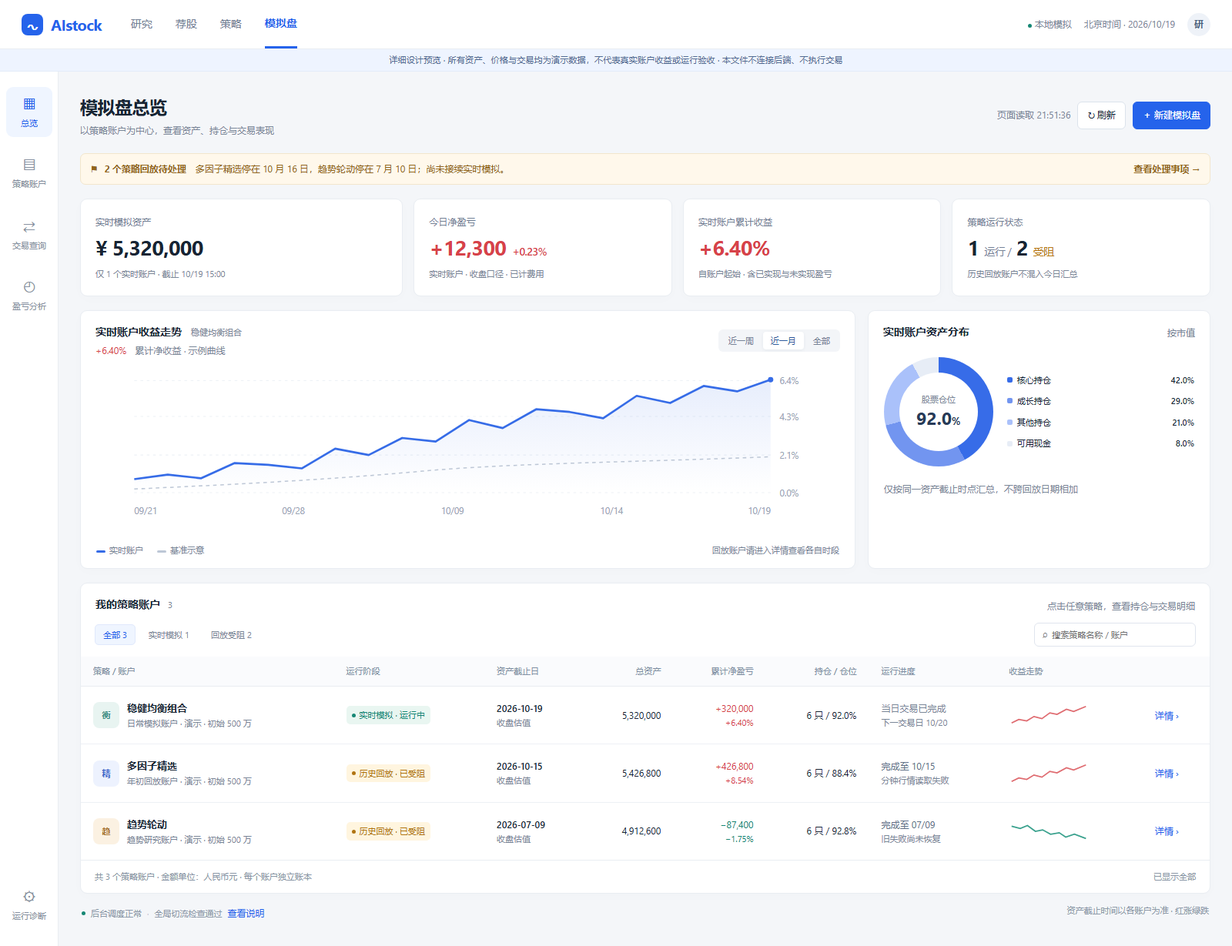
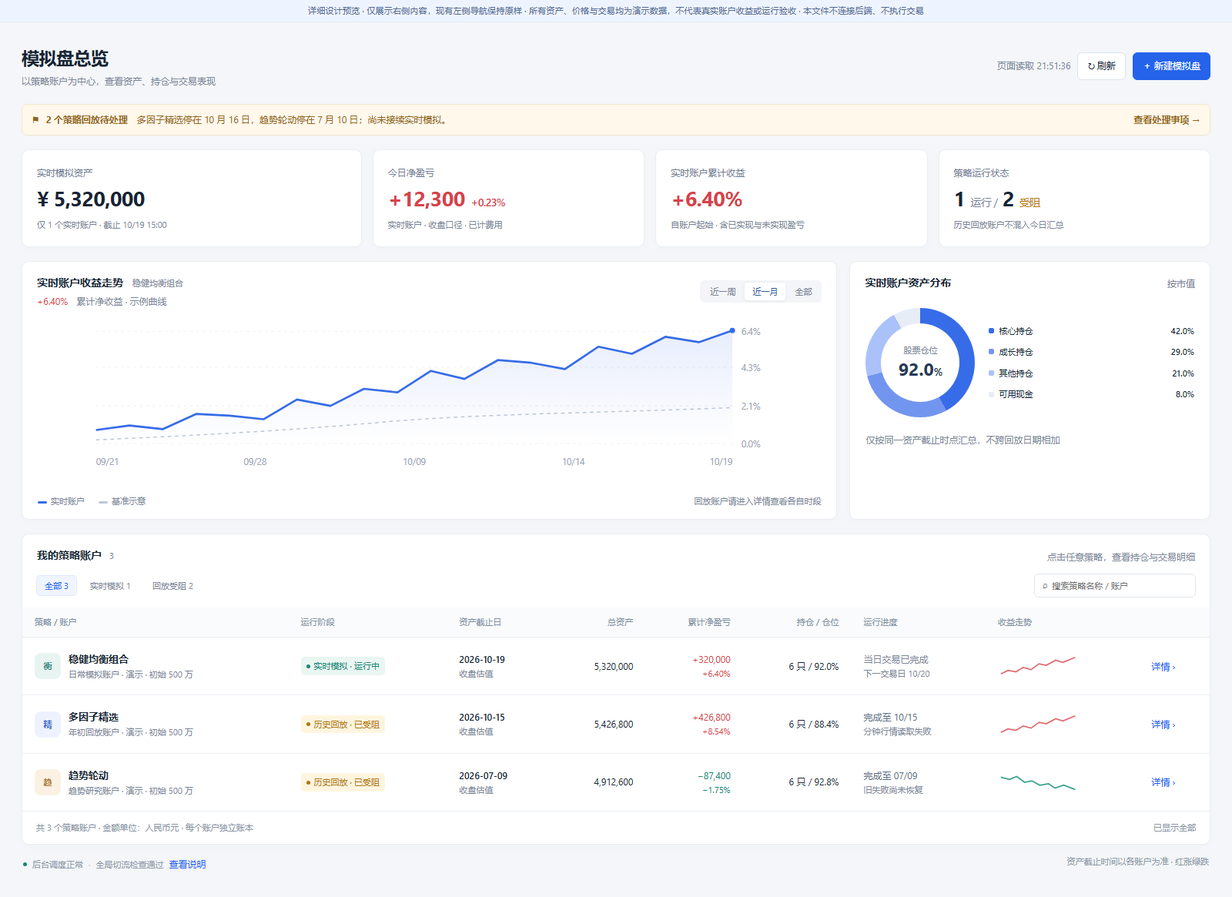
docs(localsim): preserve existing sidebar and scope layouts to content

diff --git a/docs/design/localsim_trading_workbench_20261019/index.html b/docs/design/localsim_trading_workbench_20261019/index.html
@@ -6,28 +6,16 @@
 <title>AIstock · 模拟盘交易工作台设计预览</title>
 <style>
 :root{--bg:#f4f6f9;--panel:#fff;--text:#182433;--muted:#7a8798;--line:#e9edf2;--blue:#2563eb;--bluebg:#eff5ff;--red:#d74249;--green:#168774;--orange:#b87917;--orangebg:#fff8eb;--shadow:0 3px 15px #25365204}
-*{box-sizing:border-box}body{margin:0;background:var(--bg);color:var(--text);font:13px/1.6 "Segoe UI","Microsoft YaHei",sans-serif}button,input,select{font:inherit}button,a{touch-action:manipulation}button{cursor:pointer}a{color:var(--blue);text-decoration:none}button{border:0;background:none;color:inherit}button:focus-visible,a:focus-visible,input:focus-visible,select:focus-visible{outline:2px solid var(--blue);outline-offset:3px}[hidden]{display:none!important}.topbar{height:64px;display:flex;align-items:center;padding:0 28px;gap:38px;background:#fff;border-bottom:1px solid var(--line)}.brand{font-size:20px;font-weight:750;letter-spacing:-.6px;display:flex;align-items:center;gap:10px}.brandmark{height:28px;width:28px;display:grid;place-items:center;background:var(--blue);color:white;border-radius:8px;font-size:19px}.topnav{display:flex;align-self:stretch;gap:30px}.topnav span{display:grid;place-items:center;font-size:14px;color:#738195}.topnav .active{color:var(--blue);border-bottom:3px solid var(--blue);font-weight:650}.topright{margin-left:auto;display:flex;align-items:center;gap:16px;color:var(--muted);font-size:12px}.avatar{display:grid;place-items:center;width:30px;height:30px;background:#eef2f8;border-radius:50%;color:#495e7b;font-weight:600}.demo{background:#eef4ff;color:#526b93;text-align:center;font-size:11px;letter-spacing:.2px;padding:5px 16px;border-bottom:1px solid #e3ebf9}.workspace{display:grid;grid-template-columns:76px minmax(0,1fr);min-height:calc(100vh - 92px)}.rail{background:#fff;border-right:1px solid var(--line);padding:20px 8px;display:flex;flex-direction:column;gap:14px}.rail button{display:flex;flex-direction:column;align-items:center;gap:6px;width:60px;padding:10px 3px;border-radius:9px;color:#8791a1;font-size:11px}.rail button .icon{font-size:20px;line-height:1.1}.rail button.selected{background:var(--bluebg);color:var(--blue)}.rail .bottom{margin-top:auto}.main{min-width:0;padding:23px 28px 30px;max-width:1710px;width:100%;margin:auto}.heading{display:flex;align-items:center;justify-content:space-between;gap:15px;margin-bottom:19px}.heading h1{font-size:23px;letter-spacing:-.5px;margin:0 0 3px;font-weight:700}.sub{font-size:12px;color:var(--muted)}.muted{color:var(--muted)}.tiny{font-size:11px}.right{text-align:right!important}.mono,.number{font-variant-numeric:tabular-nums}.number{font-family:"Segoe UI","Microsoft YaHei",sans-serif}.up{color:var(--red)!important}.down{color:var(--green)!important}.neutral{color:#607087}.actions{display:flex;align-items:center;gap:9px}.btn{padding:7px 12px;border:1px solid #dce3ec;border-radius:6px;background:#fff;font-size:12px;white-space:nowrap}.btn.primary{background:var(--blue);border-color:var(--blue);color:#fff}.btn.link{border:0;background:none;padding:3px 0;color:var(--blue)}.pill{display:inline-flex;align-items:center;gap:5px;border-radius:5px;padding:3px 7px;font-size:11px;white-space:nowrap}.pill.live{color:#168774;background:#e9f6f1}.pill.blocked{color:#b07412;background:#fff5df}.pill.blue{color:#3563ae;background:#edf3ff}.dot{width:5px;height:5px;background:currentColor;border-radius:50%;display:inline-block}.notice{display:flex;align-items:center;gap:9px;font-size:12px;background:var(--orangebg);border:1px solid #f2e6cc;border-radius:7px;padding:10px 13px;color:#91651d;margin-bottom:18px}.notice.blue{background:#f0f5fd;color:#58739c;border-color:#dfe8f7}.notice a,.notice button{margin-left:auto;color:inherit;font-weight:600;white-space:nowrap}.metrics{display:grid;grid-template-columns:1.25fr 1fr 1fr 1fr;gap:14px;margin-bottom:18px}.metric{background:#fff;border:1px solid var(--line);border-radius:9px;padding:17px 19px;box-shadow:var(--shadow)}.metric .label{color:#718094;font-size:12px;display:flex;align-items:center;gap:7px}.metric .value{font-size:27px;line-height:1.25;margin-top:7px;letter-spacing:-.6px;font-weight:650}.metric .foot{color:var(--muted);font-size:11px;margin-top:8px}.metric .inline{font-size:14px;margin-left:8px;font-weight:500}.panel{background:#fff;border:1px solid var(--line);border-radius:9px;box-shadow:var(--shadow);min-width:0}.panelhead{padding:16px 19px 12px;display:flex;align-items:center;justify-content:space-between;gap:15px}.panelhead h2{margin:0;font-size:14px;font-weight:650}.panelhead .sub{margin-top:3px}.segmented{display:flex;gap:2px;background:#f3f5f8;padding:3px;border-radius:6px}.segmented button{padding:3px 10px;font-size:11px;border-radius:4px;color:#778397}.segmented button.active{background:#fff;color:#305b9c;box-shadow:0 1px 4px #172e5610}.chartrow{display:grid;grid-template-columns:minmax(0,2.08fr) minmax(270px,.92fr);gap:16px;margin-bottom:18px}.chart{padding:0 14px 9px}.chart svg{display:block;width:100%;height:190px}.legend{display:flex;gap:18px;align-items:center;font-size:11px;color:#7b8899}.legend .swatch{display:inline-block;width:12px;height:3px;border-radius:2px;margin-right:5px;vertical-align:middle}.donutwrap{display:flex;align-items:center;padding:9px 20px 20px;gap:18px}.donut{width:142px;height:142px;border-radius:50%;display:grid;place-items:center;background:conic-gradient(#376ce8 0 42%,#7295f0 42% 71%,#aac1fa 71% 92%,#e7edf6 92%)}.donutinner{width:102px;height:102px;display:flex;align-items:center;justify-content:center;flex-direction:column;background:#fff;border-radius:50%;font-size:11px;color:var(--muted)}.donutinner b{font-size:23px;color:#283b58;line-height:1.4}.allocation{flex:1;display:grid;gap:10px;font-size:11px}.allocation div{display:flex;align-items:center;gap:6px}.allocation b{font-weight:600;margin-left:auto}.sq{width:7px;height:7px;display:inline-block;background:#376ce8;border-radius:2px}.toolbar{padding:0 18px 13px;display:flex;align-items:center;justify-content:space-between;gap:12px}.chips{display:flex;gap:6px;align-items:center;flex-wrap:wrap}.chip{padding:4px 10px;border-radius:5px;font-size:11px;color:#7c8898;border:1px solid transparent}.chip.active{background:var(--bluebg);color:var(--blue);border-color:#e0e9fc}.search{border:1px solid #e0e5ee;border-radius:6px;padding:6px 10px;font-size:11px;width:210px;color:#495a73;background:#fff}.tablewrap{overflow:auto}table{width:100%;border-collapse:collapse;white-space:nowrap;font-size:12px}th{font-weight:500;color:#8090a4;background:#fafbfd;font-size:11px;text-align:left;padding:10px 16px;border-bottom:1px solid var(--line)}td{padding:14px 16px;border-bottom:1px solid #edf0f5;vertical-align:middle}tr:last-child td{border-bottom:0}.strategyrow{cursor:pointer}.strategyrow:hover td{background:#f7faff}.strategytitle{display:flex;align-items:center;gap:10px}.strategylogo{width:34px;height:34px;border-radius:8px;display:grid;place-items:center;font-size:11px;font-weight:700;flex-shrink:0;color:#426bcb;background:#edf2fe}.strategylogo.orange{color:#aa742e;background:#fbf1e2}.strategylogo.teal{color:#378d83;background:#e8f4f1}.strategytitle b{font-size:13px;font-weight:600}.datecell b{font-weight:500}.mini-trend{width:105px;height:30px;display:block}.tablefooter{display:flex;justify-content:space-between;padding:12px 18px;color:#8a96a6;font-size:11px;border-top:1px solid var(--line)}.progressline{display:block;width:85px;height:3px;background:#edf0f5;border-radius:2px;margin:5px 0 3px}.progressline i{display:block;height:3px;background:#6b94ed;border-radius:2px}.bottomline{display:flex;justify-content:space-between;padding:13px 2px 0;color:#8d99a9;font-size:11px}.system-status{display:flex;align-items:center;gap:7px}.breadcrumb{display:flex;align-items:center;gap:7px;font-size:11px;color:#96a0ad;margin-bottom:12px}.breadcrumb button{color:#6f7e91;padding:0}.detailheading{display:flex;align-items:center;gap:10px}.detailheading h1{margin:0}.detailheading .strategylogo{width:38px;height:38px}.detailheading small{font-weight:400;font-size:12px}.accountmeta{display:flex;gap:16px;margin-top:6px;color:#8190a2;font-size:11px}.detailmetrics{grid-template-columns:1.35fr repeat(5,1fr);gap:0;border:1px solid var(--line);background:#fff;border-radius:9px;margin-bottom:16px;padding:18px 0}.detailmetrics .metric{border:0;border-right:1px solid var(--line);border-radius:0;padding:0 17px;box-shadow:none}.detailmetrics .metric:last-child{border:0}.detailmetrics .metric .value{font-size:23px}.detailmetrics .metric:first-child .value{font-size:27px}.detailmetrics .metric .foot{margin-top:7px}.detailcharts{grid-template-columns:minmax(0,2.3fr) minmax(245px,.7fr)}.detailcharts .chart svg{height:157px}.exposure{padding:4px 19px 16px}.allocationbar{height:7px;border-radius:5px;background:#edf1f6;overflow:hidden;margin:12px 0}.allocationbar i{height:7px;display:block;background:#4c7ce5;border-radius:5px}.exposurerow{display:flex;justify-content:space-between;margin-top:7px;color:#7d8a9b;font-size:11px}.exposurerow b{color:#3c4e67;font-weight:550}.tabs{display:flex;align-items:center;gap:25px;padding:0 18px;border-bottom:1px solid var(--line);overflow:auto}.tabs button{padding:13px 0 12px;color:#7d899b;font-size:12px;white-space:nowrap;position:relative}.tabs button.active{color:var(--blue);font-weight:600}.tabs button.active:after{content:"";position:absolute;height:2px;bottom:0;left:0;right:0;background:var(--blue)}.tabs .tabmeta{margin-left:auto;color:#94a0af;font-size:11px;white-space:nowrap}.tabbody .toolbar{padding-top:12px}.stock b{font-size:12px;font-weight:600}.stock small{display:block;font-size:10px;color:#929dab;margin-top:2px}.stock button{text-align:left;padding:0}.position-table td{padding:11px 15px}.weight{height:3px;border-radius:3px;background:#edf2f9;width:50px;margin-left:auto;margin-top:4px}.weight i{display:block;height:3px;border-radius:3px;background:#82a6ee}.buysell{font-size:11px;padding:3px 7px;border-radius:4px}.buysell.buy{background:#fdf0f0;color:var(--red)}.buysell.sell{background:#eaf5f0;color:var(--green)}.dateinput{border:1px solid #dfe5ee;border-radius:5px;padding:5px 7px;background:#fff;font-size:11px;color:#566981}.filters{display:flex;align-items:center;gap:8px;flex-wrap:wrap}.pnlmetrics{display:grid;grid-template-columns:repeat(4,1fr);gap:12px;margin:0 18px 15px}.pnlbox{border-radius:7px;background:#f8fafd;padding:13px 14px}.pnlbox small{font-size:11px;color:#8793a4}.pnlbox b{display:block;font-size:20px;font-weight:600;margin-top:3px}.pnlbox .sub{font-size:10px;margin-top:3px}.pnlnote{padding:0 18px 13px;color:#8d99a9;font-size:11px}.statusbanner{padding:11px 16px;background:#fff8eb;border-top:1px solid #f6ecd4;color:#9e792e;font-size:11px;display:flex;align-items:center;justify-content:space-between}.sectionlabel{padding:0 18px 10px;font-size:12px;font-weight:600}.monitor-layout{display:grid;grid-template-columns:minmax(0,1.45fr) minmax(340px,1fr);gap:12px;padding:14px}.monitor-box{border:1px solid var(--line);border-radius:7px;overflow:hidden}.monitor-box h3{font-size:12px;margin:0;padding:10px 13px;background:#f9fbfe;border-bottom:1px solid var(--line)}.monitor-box td{padding:10px 12px}.monitor-box th{padding:9px 12px}.terminal-mode .detailcharts{display:none}.monitor-event{padding:12px 14px;font-size:12px}.monitor-event p{font-size:11px;color:#8793a2;margin:5px 0 12px}.eventlist{padding:0 19px 12px}.event{padding:14px 0;display:grid;grid-template-columns:125px 1fr;gap:15px;border-bottom:1px solid var(--line)}.event:last-child{border-bottom:0}.event b{font-size:12px}.event p{margin:4px 0;font-size:12px;color:#718098}.backdrop{position:fixed;inset:0;background:#13233e33;z-index:10;display:flex;justify-content:flex-end}.drawer{background:#fff;width:570px;height:100%;box-shadow:-10px 0 35px #25334b13;overflow:auto}.drawerhead{padding:22px 23px 17px;border-bottom:1px solid var(--line);display:flex;align-items:start;justify-content:space-between}.drawerhead h2{font-size:20px;margin:0}.drawerhead .btn{font-size:17px;padding:1px 9px}.drawercontent{padding:19px 23px}.drawerquote{font-size:30px;line-height:1.2;margin:10px 0 4px;font-weight:650}.drawergrid{display:grid;grid-template-columns:repeat(3,1fr);gap:16px;padding:18px 0;border-top:1px solid var(--line);border-bottom:1px solid var(--line);margin-top:20px}.drawergrid small{font-size:11px;color:#8592a4;display:block}.drawergrid b{font-size:15px;font-weight:600}.drawer h3{font-size:13px;margin:22px 0 10px}.drawer table td{padding:12px 8px}.toast{position:fixed;bottom:24px;left:50%;transform:translateX(-50%);padding:10px 17px;background:#243855;color:white;border-radius:7px;z-index:30;box-shadow:0 4px 20px #24385533;font-size:12px}.footerhint{position:fixed;right:12px;bottom:10px;background:#ffffffeb;border:1px solid #e2e8f1;border-radius:6px;padding:5px 10px;font-size:10px;color:#8090a3;z-index:5}.empty{padding:30px;text-align:center;color:#8d99a7}
+*{box-sizing:border-box}body{margin:0;background:var(--bg);color:var(--text);font:13px/1.6 "Segoe UI","Microsoft YaHei",sans-serif}button,input,select{font:inherit}button,a{touch-action:manipulation}button{cursor:pointer}a{color:var(--blue);text-decoration:none}button{border:0;background:none;color:inherit}button:focus-visible,a:focus-visible,input:focus-visible,select:focus-visible{outline:2px solid var(--blue);outline-offset:3px}[hidden]{display:none!important}.demo{background:#eef4ff;color:#526b93;text-align:center;font-size:11px;letter-spacing:.2px;padding:5px 16px;border-bottom:1px solid #e3ebf9}.workspace{min-height:calc(100vh - 32px)}.main{min-width:0;padding:23px 28px 30px;max-width:1710px;width:100%;margin:auto}.heading{display:flex;align-items:center;justify-content:space-between;gap:15px;margin-bottom:19px}.heading h1{font-size:23px;letter-spacing:-.5px;margin:0 0 3px;font-weight:700}.sub{font-size:12px;color:var(--muted)}.muted{color:var(--muted)}.tiny{font-size:11px}.right{text-align:right!important}.mono,.number{font-variant-numeric:tabular-nums}.number{font-family:"Segoe UI","Microsoft YaHei",sans-serif}.up{color:var(--red)!important}.down{color:var(--green)!important}.neutral{color:#607087}.actions{display:flex;align-items:center;gap:9px}.btn{padding:7px 12px;border:1px solid #dce3ec;border-radius:6px;background:#fff;font-size:12px;white-space:nowrap}.btn.primary{background:var(--blue);border-color:var(--blue);color:#fff}.btn.link{border:0;background:none;padding:3px 0;color:var(--blue)}.pill{display:inline-flex;align-items:center;gap:5px;border-radius:5px;padding:3px 7px;font-size:11px;white-space:nowrap}.pill.live{color:#168774;background:#e9f6f1}.pill.blocked{color:#b07412;background:#fff5df}.pill.blue{color:#3563ae;background:#edf3ff}.dot{width:5px;height:5px;background:currentColor;border-radius:50%;display:inline-block}.notice{display:flex;align-items:center;gap:9px;font-size:12px;background:var(--orangebg);border:1px solid #f2e6cc;border-radius:7px;padding:10px 13px;color:#91651d;margin-bottom:18px}.notice.blue{background:#f0f5fd;color:#58739c;border-color:#dfe8f7}.notice a,.notice button{margin-left:auto;color:inherit;font-weight:600;white-space:nowrap}.metrics{display:grid;grid-template-columns:1.25fr 1fr 1fr 1fr;gap:14px;margin-bottom:18px}.metric{background:#fff;border:1px solid var(--line);border-radius:9px;padding:17px 19px;box-shadow:var(--shadow)}.metric .label{color:#718094;font-size:12px;display:flex;align-items:center;gap:7px}.metric .value{font-size:27px;line-height:1.25;margin-top:7px;letter-spacing:-.6px;font-weight:650}.metric .foot{color:var(--muted);font-size:11px;margin-top:8px}.metric .inline{font-size:14px;margin-left:8px;font-weight:500}.panel{background:#fff;border:1px solid var(--line);border-radius:9px;box-shadow:var(--shadow);min-width:0}.panelhead{padding:16px 19px 12px;display:flex;align-items:center;justify-content:space-between;gap:15px}.panelhead h2{margin:0;font-size:14px;font-weight:650}.panelhead .sub{margin-top:3px}.segmented{display:flex;gap:2px;background:#f3f5f8;padding:3px;border-radius:6px}.segmented button{padding:3px 10px;font-size:11px;border-radius:4px;color:#778397}.segmented button.active{background:#fff;color:#305b9c;box-shadow:0 1px 4px #172e5610}.chartrow{display:grid;grid-template-columns:minmax(0,2.08fr) minmax(270px,.92fr);gap:16px;margin-bottom:18px}.chart{padding:0 14px 9px}.chart svg{display:block;width:100%;height:190px}.legend{display:flex;gap:18px;align-items:center;font-size:11px;color:#7b8899}.legend .swatch{display:inline-block;width:12px;height:3px;border-radius:2px;margin-right:5px;vertical-align:middle}.donutwrap{display:flex;align-items:center;padding:9px 20px 20px;gap:18px}.donut{width:142px;height:142px;border-radius:50%;display:grid;place-items:center;background:conic-gradient(#376ce8 0 42%,#7295f0 42% 71%,#aac1fa 71% 92%,#e7edf6 92%)}.donutinner{width:102px;height:102px;display:flex;align-items:center;justify-content:center;flex-direction:column;background:#fff;border-radius:50%;font-size:11px;color:var(--muted)}.donutinner b{font-size:23px;color:#283b58;line-height:1.4}.allocation{flex:1;display:grid;gap:10px;font-size:11px}.allocation div{display:flex;align-items:center;gap:6px}.allocation b{font-weight:600;margin-left:auto}.sq{width:7px;height:7px;display:inline-block;background:#376ce8;border-radius:2px}.toolbar{padding:0 18px 13px;display:flex;align-items:center;justify-content:space-between;gap:12px}.chips{display:flex;gap:6px;align-items:center;flex-wrap:wrap}.chip{padding:4px 10px;border-radius:5px;font-size:11px;color:#7c8898;border:1px solid transparent}.chip.active{background:var(--bluebg);color:var(--blue);border-color:#e0e9fc}.search{border:1px solid #e0e5ee;border-radius:6px;padding:6px 10px;font-size:11px;width:210px;color:#495a73;background:#fff}.tablewrap{overflow:auto}table{width:100%;border-collapse:collapse;white-space:nowrap;font-size:12px}th{font-weight:500;color:#8090a4;background:#fafbfd;font-size:11px;text-align:left;padding:10px 16px;border-bottom:1px solid var(--line)}td{padding:14px 16px;border-bottom:1px solid #edf0f5;vertical-align:middle}tr:last-child td{border-bottom:0}.strategyrow{cursor:pointer}.strategyrow:hover td{background:#f7faff}.strategytitle{display:flex;align-items:center;gap:10px}.strategylogo{width:34px;height:34px;border-radius:8px;display:grid;place-items:center;font-size:11px;font-weight:700;flex-shrink:0;color:#426bcb;background:#edf2fe}.strategylogo.orange{color:#aa742e;background:#fbf1e2}.strategylogo.teal{color:#378d83;background:#e8f4f1}.strategytitle b{font-size:13px;font-weight:600}.datecell b{font-weight:500}.mini-trend{width:105px;height:30px;display:block}.tablefooter{display:flex;justify-content:space-between;padding:12px 18px;color:#8a96a6;font-size:11px;border-top:1px solid var(--line)}.progressline{display:block;width:85px;height:3px;background:#edf0f5;border-radius:2px;margin:5px 0 3px}.progressline i{display:block;height:3px;background:#6b94ed;border-radius:2px}.bottomline{display:flex;justify-content:space-between;padding:13px 2px 0;color:#8d99a9;font-size:11px}.system-status{display:flex;align-items:center;gap:7px}.breadcrumb{display:flex;align-items:center;gap:7px;font-size:11px;color:#96a0ad;margin-bottom:12px}.breadcrumb button{color:#6f7e91;padding:0}.detailheading{display:flex;align-items:center;gap:10px}.detailheading h1{margin:0}.detailheading .strategylogo{width:38px;height:38px}.detailheading small{font-weight:400;font-size:12px}.accountmeta{display:flex;gap:16px;margin-top:6px;color:#8190a2;font-size:11px}.detailmetrics{grid-template-columns:1.35fr repeat(5,1fr);gap:0;border:1px solid var(--line);background:#fff;border-radius:9px;margin-bottom:16px;padding:18px 0}.detailmetrics .metric{border:0;border-right:1px solid var(--line);border-radius:0;padding:0 17px;box-shadow:none}.detailmetrics .metric:last-child{border:0}.detailmetrics .metric .value{font-size:23px}.detailmetrics .metric:first-child .value{font-size:27px}.detailmetrics .metric .foot{margin-top:7px}.detailcharts{grid-template-columns:minmax(0,2.3fr) minmax(245px,.7fr)}.detailcharts .chart svg{height:157px}.exposure{padding:4px 19px 16px}.allocationbar{height:7px;border-radius:5px;background:#edf1f6;overflow:hidden;margin:12px 0}.allocationbar i{height:7px;display:block;background:#4c7ce5;border-radius:5px}.exposurerow{display:flex;justify-content:space-between;margin-top:7px;color:#7d8a9b;font-size:11px}.exposurerow b{color:#3c4e67;font-weight:550}.tabs{display:flex;align-items:center;gap:25px;padding:0 18px;border-bottom:1px solid var(--line);overflow:auto}.tabs button{padding:13px 0 12px;color:#7d899b;font-size:12px;white-space:nowrap;position:relative}.tabs button.active{color:var(--blue);font-weight:600}.tabs button.active:after{content:"";position:absolute;height:2px;bottom:0;left:0;right:0;background:var(--blue)}.tabs .tabmeta{margin-left:auto;color:#94a0af;font-size:11px;white-space:nowrap}.tabbody .toolbar{padding-top:12px}.stock b{font-size:12px;font-weight:600}.stock small{display:block;font-size:10px;color:#929dab;margin-top:2px}.stock button{text-align:left;padding:0}.position-table td{padding:11px 15px}.weight{height:3px;border-radius:3px;background:#edf2f9;width:50px;margin-left:auto;margin-top:4px}.weight i{display:block;height:3px;border-radius:3px;background:#82a6ee}.buysell{font-size:11px;padding:3px 7px;border-radius:4px}.buysell.buy{background:#fdf0f0;color:var(--red)}.buysell.sell{background:#eaf5f0;color:var(--green)}.dateinput{border:1px solid #dfe5ee;border-radius:5px;padding:5px 7px;background:#fff;font-size:11px;color:#566981}.filters{display:flex;align-items:center;gap:8px;flex-wrap:wrap}.pnlmetrics{display:grid;grid-template-columns:repeat(4,1fr);gap:12px;margin:0 18px 15px}.pnlbox{border-radius:7px;background:#f8fafd;padding:13px 14px}.pnlbox small{font-size:11px;color:#8793a4}.pnlbox b{display:block;font-size:20px;font-weight:600;margin-top:3px}.pnlbox .sub{font-size:10px;margin-top:3px}.pnlnote{padding:0 18px 13px;color:#8d99a9;font-size:11px}.statusbanner{padding:11px 16px;background:#fff8eb;border-top:1px solid #f6ecd4;color:#9e792e;font-size:11px;display:flex;align-items:center;justify-content:space-between}.sectionlabel{padding:0 18px 10px;font-size:12px;font-weight:600}.monitor-layout{display:grid;grid-template-columns:minmax(0,1.45fr) minmax(340px,1fr);gap:12px;padding:14px}.monitor-box{border:1px solid var(--line);border-radius:7px;overflow:hidden}.monitor-box h3{font-size:12px;margin:0;padding:10px 13px;background:#f9fbfe;border-bottom:1px solid var(--line)}.monitor-box td{padding:10px 12px}.monitor-box th{padding:9px 12px}.terminal-mode .detailcharts{display:none}.monitor-event{padding:12px 14px;font-size:12px}.monitor-event p{font-size:11px;color:#8793a2;margin:5px 0 12px}.eventlist{padding:0 19px 12px}.event{padding:14px 0;display:grid;grid-template-columns:125px 1fr;gap:15px;border-bottom:1px solid var(--line)}.event:last-child{border-bottom:0}.event b{font-size:12px}.event p{margin:4px 0;font-size:12px;color:#718098}.backdrop{position:fixed;inset:0;background:#13233e33;z-index:10;display:flex;justify-content:flex-end}.drawer{background:#fff;width:570px;height:100%;box-shadow:-10px 0 35px #25334b13;overflow:auto}.drawerhead{padding:22px 23px 17px;border-bottom:1px solid var(--line);display:flex;align-items:start;justify-content:space-between}.drawerhead h2{font-size:20px;margin:0}.drawerhead .btn{font-size:17px;padding:1px 9px}.drawercontent{padding:19px 23px}.drawerquote{font-size:30px;line-height:1.2;margin:10px 0 4px;font-weight:650}.drawergrid{display:grid;grid-template-columns:repeat(3,1fr);gap:16px;padding:18px 0;border-top:1px solid var(--line);border-bottom:1px solid var(--line);margin-top:20px}.drawergrid small{font-size:11px;color:#8592a4;display:block}.drawergrid b{font-size:15px;font-weight:600}.drawer h3{font-size:13px;margin:22px 0 10px}.drawer table td{padding:12px 8px}.toast{position:fixed;bottom:24px;left:50%;transform:translateX(-50%);padding:10px 17px;background:#243855;color:white;border-radius:7px;z-index:30;box-shadow:0 4px 20px #24385533;font-size:12px}.footerhint{position:fixed;right:12px;bottom:10px;background:#ffffffeb;border:1px solid #e2e8f1;border-radius:6px;padding:5px 10px;font-size:10px;color:#8090a3;z-index:5}.empty{padding:30px;text-align:center;color:#8d99a7}
 @media(min-width:1600px){.main{padding-top:28px}.metric{padding-top:20px;padding-bottom:20px}.chart svg{height:220px}td{padding-top:18px;padding-bottom:18px}.detailcharts .chart svg{height:180px}}
-@media(max-width:1100px){.workspace{grid-template-columns:60px 1fr}.rail{padding-left:3px;padding-right:3px}.rail button{width:52px}.main{padding:18px}.metrics{grid-template-columns:repeat(2,1fr)}.detailmetrics{grid-template-columns:repeat(3,1fr);gap:18px}.chartrow{grid-template-columns:1fr}.topnav{gap:15px}.detailmetrics .metric:nth-child(3){border:0}}
-@media(max-width:650px){.topbar{padding:0 14px;gap:20px;height:57px}.topnav{gap:15px}.topnav span:not(.active){display:none}.topright{display:none}.workspace{grid-template-columns:1fr}.rail{display:none}.main{padding:16px 12px}.heading{align-items:flex-start;flex-wrap:wrap}.heading h1{font-size:21px}.metrics{gap:8px}.metric{padding:12px}.metric .value{font-size:22px}.detailmetrics .metric .value{font-size:18px}.detailmetrics{grid-template-columns:repeat(2,1fr)}.detailmetrics .metric:nth-child(3){border-right:1px solid var(--line)}.detailmetrics .metric:nth-child(2n){border:0}.notice{align-items:flex-start}.toolbar{align-items:flex-start;flex-wrap:wrap}.drawer{width:100%}.monitor-layout{grid-template-columns:1fr}.pnlmetrics{grid-template-columns:repeat(2,1fr)}.accountmeta{flex-wrap:wrap;gap:4px 12px}.tabs{gap:20px}.tabs .tabmeta{display:none}.footerhint{display:none}.bottomline{gap:12px;align-items:flex-start}.tablewrap{border-radius:0 0 9px 9px}}
+@media(max-width:1100px){.main{padding:18px}.metrics{grid-template-columns:repeat(2,1fr)}.detailmetrics{grid-template-columns:repeat(3,1fr);gap:18px}.chartrow{grid-template-columns:1fr}.detailmetrics .metric:nth-child(3){border:0}}
+@media(max-width:650px){.main{padding:16px 12px}.heading{align-items:flex-start;flex-wrap:wrap}.heading h1{font-size:21px}.metrics{gap:8px}.metric{padding:12px}.metric .value{font-size:22px}.detailmetrics .metric .value{font-size:18px}.detailmetrics{grid-template-columns:repeat(2,1fr)}.detailmetrics .metric:nth-child(3){border-right:1px solid var(--line)}.detailmetrics .metric:nth-child(2n){border:0}.notice{align-items:flex-start}.toolbar{align-items:flex-start;flex-wrap:wrap}.drawer{width:100%}.monitor-layout{grid-template-columns:1fr}.pnlmetrics{grid-template-columns:repeat(2,1fr)}.accountmeta{flex-wrap:wrap;gap:4px 12px}.tabs{gap:20px}.tabs .tabmeta{display:none}.footerhint{display:none}.bottomline{gap:12px;align-items:flex-start}.tablewrap{border-radius:0 0 9px 9px}}
 @media(max-width:650px){.main{margin:0}.legend{flex-wrap:wrap}.legend span[style]{margin-left:0!important}.notice{flex-wrap:wrap}.notice a,.notice button{margin-left:0}.filters{min-width:0}.search{max-width:100%}.toolbar .filters{width:100%}.bottomline{flex-wrap:wrap}.accountmeta{max-width:100%}.actions{flex-wrap:wrap}.tabs{max-width:100%}.detailheading{flex-wrap:wrap}.donutwrap{gap:12px}.allocation{min-width:95px}.strategylogo{font-size:15px}.tablewrap{max-width:100%}}
 </style>
 </head>
 <body>
-<header class="topbar">
- <a class="brand" href="#总览" aria-label="AIstock 模拟盘总览"><span class="brandmark">∿</span>AIstock</a>
- <nav class="topnav" aria-label="产品导航"><span>研究</span><span>荐股</span><span>策略</span><span class="active">模拟盘</span></nav>
- <div class="topright"><span><i class="dot" style="color:#168774"></i> 本地模拟</span><span>北京时间 · 2026/10/19</span><span class="avatar">研</span></div>
-</header>
-<div class="demo">详细设计预览 · 所有资产、价格与交易均为演示数据，不代表真实账户收益或运行验收 · 本文件不连接后端、不执行交易</div>
+<div class="demo">详细设计预览 · 仅展示右侧内容，现有左侧导航保持原样 · 所有资产、价格与交易均为演示数据，不代表真实账户收益或运行验收 · 本文件不连接后端、不执行交易</div>
 <div class="workspace">
- <aside class="rail" aria-label="模拟盘导航">
-  <button id="nav-overview" class="selected" onclick="navigate()"><span class="icon">▦</span>总览</button>
-  <button id="nav-strategy" onclick="navigate(currentKey,'holdings')"><span class="icon">▤</span>策略账户</button>
-  <button onclick="navigate(currentKey,'trades')"><span class="icon">⇄</span>交易查询</button>
-  <button onclick="navigate(currentKey,'pnl')"><span class="icon">◴</span>盈亏分析</button>
-  <button class="bottom" onclick="navigate(currentKey,'status')"><span class="icon">⚙</span>运行诊断</button>
- </aside>
  <main id="content" class="main"></main>
 </div>
 <div id="drawer-root"></div><div id="toast" class="toast" role="status" hidden></div>
@@ -133,7 +121,7 @@ function filterPositions(q){document.querySelectorAll('[data-position]').forEach
 function filterAccounts(button){if(button){document.querySelectorAll('#overview-filters .chip').forEach(b=>b.classList.remove('active'));button.classList.add('active')}const filter=document.querySelector('#overview-filters .active')?.dataset.filter||'all',q=document.querySelector('[aria-label="搜索策略账户"]')?.value?.toLowerCase()||'';document.querySelectorAll('[data-account]').forEach(row=>row.hidden=(filter!=='all'&&row.dataset.state!==filter)||!row.textContent.toLowerCase().includes(q));}
 function setChart(button,key,period){button.parentElement.querySelectorAll('button').forEach(b=>b.classList.remove('active'));button.classList.add('active');document.getElementById(key==='overview'?'overview-chart':'account-chart').innerHTML=chart(key,period);}
 let toastTimer;function toast(text){const el=document.getElementById('toast');el.textContent=text;el.hidden=false;clearTimeout(toastTimer);toastTimer=setTimeout(()=>el.hidden=true,4300);}
-function render(){closeStock();const parts=decodeURIComponent(location.hash).replace(/^#/,'').split('/');const selected=Object.keys(accounts).find(key=>accounts[key].name===parts[1]);const isDetail=parts[0]==='策略'&&!!selected;const key=isDetail?selected:'lstm',tab=Object.keys(tabNames).find(id=>tabNames[id]===parts[2])||'holdings';document.getElementById('content').classList.toggle('terminal-mode',isDetail&&tab==='monitor');document.getElementById('content').innerHTML=isDetail?detail(key,tab):overview();document.getElementById('nav-overview').classList.toggle('selected',!isDetail);document.getElementById('nav-strategy').classList.toggle('selected',!!isDetail);document.title=(isDetail?accounts[key].name:'模拟盘总览')+' · AIstock 设计预览';if(isDetail&&tab==='trades'&&stockSelection?.key===key){document.getElementById('trade-symbol').value=basePositions.find(p=>p.code===stockSelection.code).name;filterTrades();}else if(isDetail&&stockSelection?.key!==key){stockSelection=null;}window.scrollTo(0,0);}
+function render(){closeStock();const parts=decodeURIComponent(location.hash).replace(/^#/,'').split('/');const selected=Object.keys(accounts).find(key=>accounts[key].name===parts[1]);const isDetail=parts[0]==='策略'&&!!selected;const key=isDetail?selected:'lstm',tab=Object.keys(tabNames).find(id=>tabNames[id]===parts[2])||'holdings';document.getElementById('content').classList.toggle('terminal-mode',isDetail&&tab==='monitor');document.getElementById('content').innerHTML=isDetail?detail(key,tab):overview();document.title=(isDetail?accounts[key].name:'模拟盘总览')+' · AIstock 设计预览';if(isDetail&&tab==='trades'&&stockSelection?.key===key){document.getElementById('trade-symbol').value=basePositions.find(p=>p.code===stockSelection.code).name;filterTrades();}else if(isDetail&&stockSelection?.key!==key){stockSelection=null;}window.scrollTo(0,0);}
 window.addEventListener('hashchange',render);window.addEventListener('keydown',e=>{if(e.key==='Escape')closeStock()});render();
 </script>
 </body>

diff --git a/docs/design/localsim_trading_workbench_overview_20261019.md b/docs/design/localsim_trading_workbench_overview_20261019.md
@@ -4,6 +4,8 @@
 
 详细合同以 [交易工作台详细设计](../architecture/localsim_trading_workbench_detailed_design_20261019.md) 为准，包括只读接口、名称解析、财务边界、完整历史、交互与验收矩阵。
 
+**布局约束：左侧原导航完全保持不变。**本次只改现有导航右侧的模拟盘内容区，不改导航菜单、链接、顺序、图标、宽度、样式和折叠行为。下列原型与五张图仅预览右侧内容，已撤销之前自建的窄侧栏和顶部全局导航；正式应用继续使用原有公共导航，不新增第二套。
+
 交付范围：总览、每个策略账户的持仓详情、个股下钻、历史委托与成交、区间盈亏、资金流水、业务化运行状态，以及 vn.py 风格的并列交易监控布局。所有截图和交互原型使用明确标注的演示数据，不能作为真实收益或生产回放验收。
 
 ## 1. 背景与设计方向
@@ -172,6 +174,7 @@ vn.py 风格的可选并列布局：
 | LSUI-13 缺名与重名 | 详细设计第 2 节 | 已定义缺名、名称内含编号及重名合同 | design covered | 真实元数据接入与样本回归待实施 |
 | LSUI-14 稳定读取和隔离 | 详细设计第 7、8 节 | 已定义一致集合、游标和请求取消 | design covered | 并发与真实分页待实施 |
 | LSUI-15 完整导出与响应式 | 详细设计第 8、9 节 | 离线宽窄屏浏览检查；完整导出合同 | design covered | 真实导出待实施 |
+| LSUI-16 左侧原导航保持不变 | 详细设计第 3、8 节；五图改为纯右侧内容预览 | 原型无自建导航；公共导航组件和菜单数据未修改 | design covered | 正式应用实施时核对实际导航行为及修改范围 |
 
 ## 11. 范围、风险与生产门禁
 
